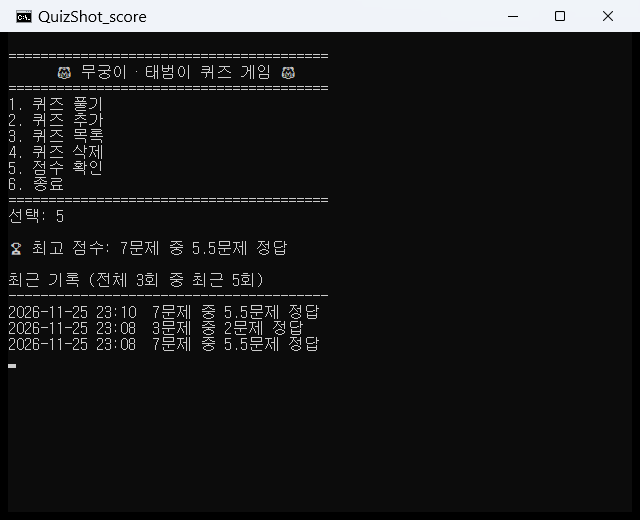
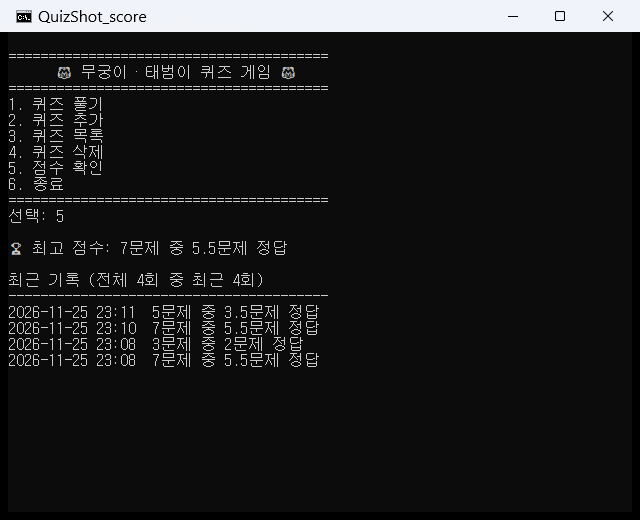
Fix: 최근 기록 개수를 실제 표시 개수로 출력

diff --git a/quiz_game.py b/quiz_game.py
@@ -257,7 +257,8 @@ class QuizGame:
             return
         print(f"\n🏆 최고 점수: {self.best_total}문제 중 {format_score(self.best_score)}문제 정답")
         if self.history:
-            print(f"\n최근 기록 (전체 {len(self.history)}회 중 최근 5회)")
+            recent = self.history[-5:]  # 기록이 5개보다 적으면 있는 만큼만
+            print(f"\n최근 기록 (전체 {len(self.history)}회 중 최근 {len(recent)}회)")
             print("----------------------------------------")
-            for record in reversed(self.history[-5:]):
+            for record in reversed(recent):
                 print(f"{record['date']}  {record['total']}문제 중 {format_score(record['score'])}문제 정답")
